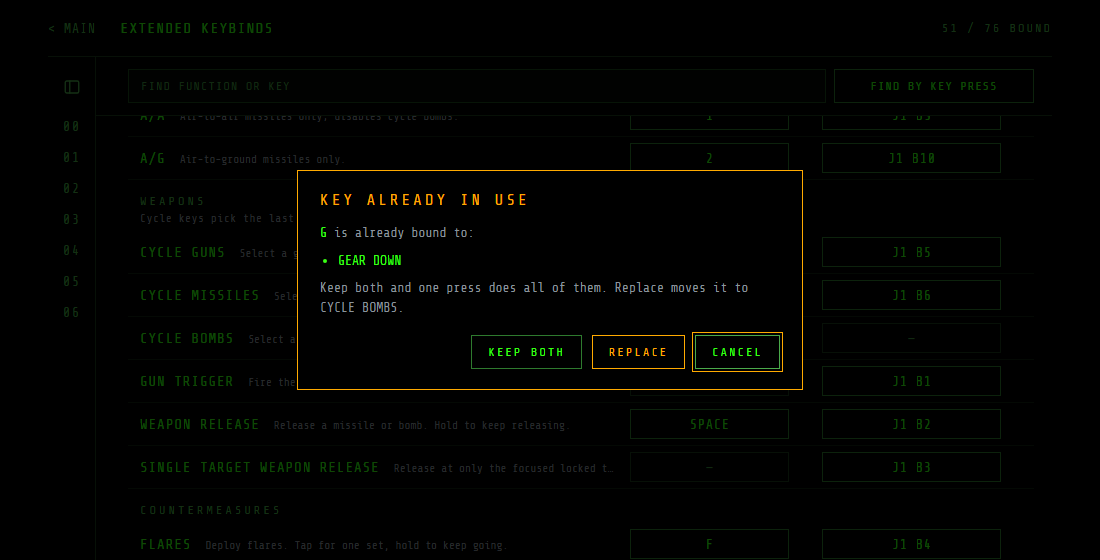
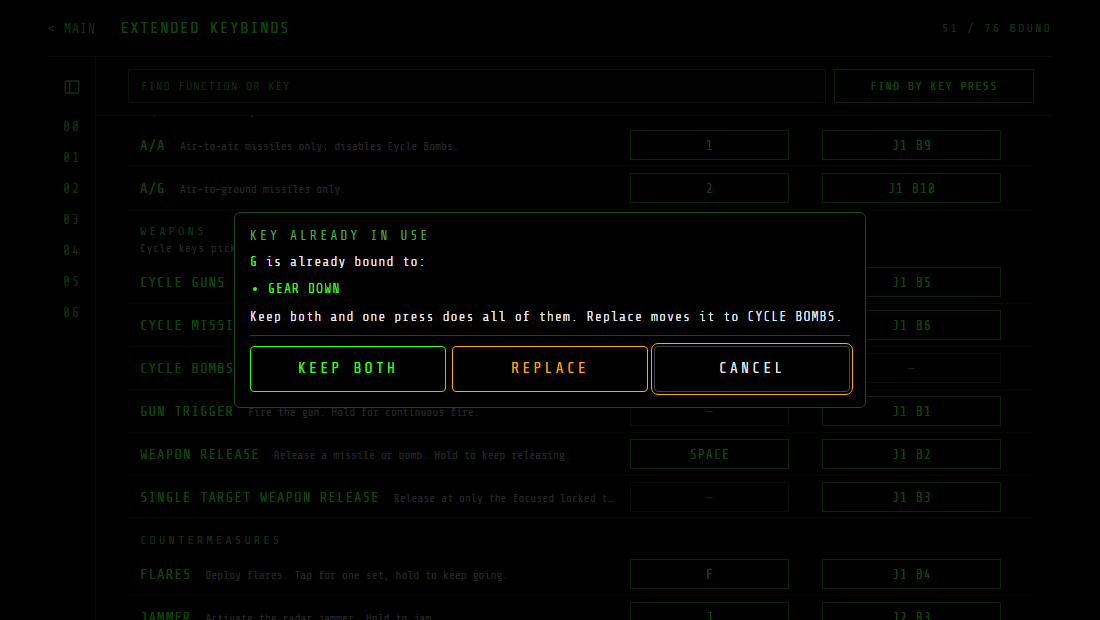
KEY page: clash prompt uses the shared preset dialog styling
The keep / replace / cancel prompt now reuses shared/preset-dialog.css (the box, title and buttons
the LYT dialogs use) instead of its own look; KEEP BOTH is green and REPLACE amber, as on TGT's
squad dock. Retakes KEY_CONFLICT.png.

diff --git a/src/web/pages/keybinds/keybinds.css b/src/web/pages/keybinds/keybinds.css
@@ -290,41 +290,17 @@ button:focus-visible, a:focus-visible { outline: 1px solid var(--no-amber); outl
 .kb-none { display: none; padding: 40px 0; text-align: center; font-size: 12px; letter-spacing: 3px; color: var(--kb-dim); }
 .kb-none.shown { display: block; }
 
-/* The keep / replace / cancel prompt for a key or button another bind already uses. */
-.kb-modal-scrim {
-  position: fixed;
-  inset: 0;
-  z-index: 40;
-  background: rgba(0, 0, 0, 0.72);
-  display: flex;
-  align-items: center;
-  justify-content: center;
-}
-.kb-modal-scrim[hidden] { display: none; }
-.kb-modal {
-  width: min(460px, 92%);
-  padding: 20px 22px;
-  background: var(--no-bg);
-  border: 1px solid var(--no-amber);
-}
-.kb-modal-title { font-size: 16px; letter-spacing: 3px; color: var(--no-amber); }
-.kb-modal-body { margin: 14px 0 18px; font-size: 13px; line-height: 1.5; color: var(--no-white-dim); }
-.kb-modal-body strong { color: var(--no-green); font-weight: normal; }
-.kb-modal-body ul { margin: 8px 0; padding-left: 18px; color: var(--no-green); }
-.kb-modal-actions { display: flex; gap: 10px; justify-content: flex-end; }
-.kb-modal-actions button {
-  height: 34px;
-  padding: 0 16px;
-  border: 1px solid var(--no-green-deep);
-  background: none;
-  color: var(--no-green);
-  font-family: var(--no-font);
-  font-size: 12px;
-  letter-spacing: 2px;
-  cursor: pointer;
-}
-.kb-modal-actions button:hover { border-color: var(--no-green-dim); }
-.kb-modal-actions button[data-act="replace"] { border-color: var(--no-amber); color: var(--no-amber); }
+/* The keep / replace / cancel prompt for a key or button another bind already uses. The dialog, its
+   title and buttons are the shared SAVE PRESET dialog's (shared/preset-dialog.css) the LYT page uses;
+   this adds the body text and the buttons' accents (KEEP BOTH green, REPLACE amber, as on TGT's
+   squad dock). */
+.kb-conflict-box { width: min(600px, 94%); }
+.kb-conflict-body { font-size: 13px; line-height: 1.5; letter-spacing: 1px; color: var(--no-white); }
+.kb-conflict-body strong { color: var(--no-green); font-weight: normal; }
+.kb-conflict-body ul { margin: 8px 0; padding-left: 18px; color: var(--no-green); }
+.kb-conflict-actions { padding-top: clamp(6px, 1.6vh, 14px); border-top: 1px solid var(--no-green-dark); }
+.preset-kp-btn.keep { border-color: var(--no-green); color: var(--no-green); }
+.preset-kp-btn.replace { border-color: var(--no-amber); color: var(--no-amber); }
 
 #kb-empty { display: none; }
 .kb-panel.unavailable .kb-body { display: none; }

diff --git a/src/web/pages/keybinds/keybinds.html b/src/web/pages/keybinds/keybinds.html
@@ -29,6 +29,7 @@
 <link rel="stylesheet" href="/assets/shared/theme.css">
 <link rel="stylesheet" href="/assets/shared/page-chrome.css">
 <link rel="stylesheet" href="/assets/shared/lit-panel.css">
+<link rel="stylesheet" href="/assets/shared/preset-dialog.css">
 <link rel="stylesheet" href="/assets/pages/keybinds/keybinds.css">
 </head>
 <body>
@@ -71,14 +72,14 @@
 
   <!-- Asked when an assignment would give a key or button another bind already uses; built by
        keybinds.js from /keybinds-config's "conflict". -->
-  <div class="kb-modal-scrim" id="kb-conflict" hidden>
-    <div class="kb-modal" role="alertdialog" aria-modal="true" aria-labelledby="kb-conflict-title" aria-describedby="kb-conflict-body">
-      <div class="kb-modal-title" id="kb-conflict-title"></div>
-      <div class="kb-modal-body" id="kb-conflict-body"></div>
-      <div class="kb-modal-actions">
-        <button data-act="keep">KEEP BOTH</button>
-        <button data-act="replace">REPLACE</button>
-        <button data-act="cancel" id="kb-conflict-cancel">CANCEL</button>
+  <div class="preset-kp-scrim" id="kb-conflict" hidden>
+    <div class="preset-kp kb-conflict-box" role="alertdialog" aria-modal="true" aria-labelledby="kb-conflict-title" aria-describedby="kb-conflict-body">
+      <div class="preset-kp-title" id="kb-conflict-title"></div>
+      <div class="kb-conflict-body" id="kb-conflict-body"></div>
+      <div class="preset-kp-actions kb-conflict-actions">
+        <button type="button" class="preset-kp-btn keep" data-act="keep">KEEP BOTH</button>
+        <button type="button" class="preset-kp-btn replace" data-act="replace">REPLACE</button>
+        <button type="button" class="preset-kp-btn" data-act="cancel" id="kb-conflict-cancel">CANCEL</button>
       </div>
     </div>
   </div>

diff --git a/src/web/shared/preset-dialog.css b/src/web/shared/preset-dialog.css
@@ -1,5 +1,6 @@
 /* The SAVE PRESET dialog: the TGT and HUD preset cards open it (services/preset-cards.js), and the
-   layout edit / save dialog (shell/shared/layout-edit-dialog.js) is built from the same pieces. Its
+   layout edit / save dialog (shell/shared/layout-edit-dialog.js) and the KEY page's keep / replace /
+   cancel prompt are built from the same pieces. Its
    own file rather than part of lit-panel.css because the bezel shell uses `.lit` for its key press
    flash, so it can't load lit-panel.css. */
 

diff --git a/docs/keybinds-page.md b/docs/keybinds-page.md
@@ -172,7 +172,7 @@ same machine can send the same keypress twice.
   Layout Preset (those are refused outright) is held in `Keybinds.PendingConflict` instead of being
   applied, and `/keybinds-config` reports it as `conflict` (`bind`, `label`, `kind`, `key` or
   `joy`/`button`, `with`: the labels already using it). The page shows a keep both / replace /
-  cancel prompt and answers with `keybind.resolve { group }`; a clash nobody answers is dropped after two minutes. Callers that don't send `on` (the LYT
+  cancel prompt (the shared preset dialog's box and buttons, as the LYT dialogs use) and answers with `keybind.resolve { group }`; a clash nobody answers is dropped after two minutes. Callers that don't send `on` (the LYT
   page's key boxes) keep the old behavior of silently sharing the key.
 - `POST /command`: `keybind.set-key { bind, key }` (`""`/`"None"` clears),
   `keybind.arm-joy { bind }`, `keybind.cancel-joy`, `keybind.clear-joy { bind }`. Commands
